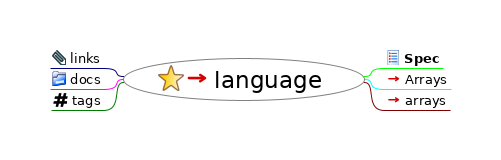
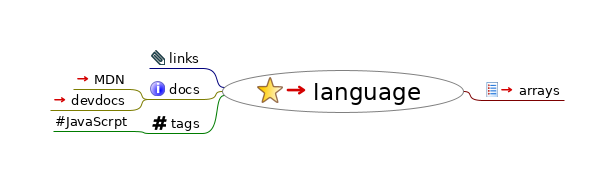
Clean up Arrays

Changed region(s): [[0.0898, 0.2812, 0.9281, 0.75], [0.7784, 0.5938, 0.8982, 0.6562], [0.7485, 0.6562, 0.8982, 0.7188]]

diff --git a/language.html b/language.html
@@ -23,14 +23,15 @@
                    };
                };
           
-          --></script></head><body><h1>language</h1><div style="width:96%;  padding:2%;  margin-bottom:10px;  border: 0px;  text-align:center;  vertical-align:center;"><img src="language.html_files/image.png" style="margin-bottom:10px; &#9;border: 0px; &#9;text-align:center; &#9;vertical-align:center;" alt="Imagemap" usemap="#fm_imagemap" /></div><map name="fm_imagemap" id="fm_imagemap"><area shape="rect" href="index.html" alt="language" title="language" coords="123,58,365,101" />
-<area shape="rect" href="#FMID_120250381FM" alt="Spec" title="Spec" coords="384,50,443,68" />
-<area shape="rect" href="https://developer.mozilla.org/en-US/docs/Web/JavaScript/Reference/Global_Objects/Array" alt="Arrays" title="Arrays" coords="384,71,451,89" />
-<area shape="rect" href="arrays.html" alt="arrays" title="arrays" coords="384,92,450,110" />
-<area shape="rect" href="#FMID_808607355FM" alt="links" title="links" coords="50,50,104,68" />
-<area shape="rect" href="#FMID_1100215200FM" alt="docs" title="docs" coords="50,71,104,89" />
-<area shape="rect" href="#FMID_466759422FM" alt="tags" title="tags" coords="51,92,104,110" />
+          --></script></head><body><h1>language</h1><div style="width:96%;  padding:2%;  margin-bottom:10px;  border: 0px;  text-align:center;  vertical-align:center;"><img src="language.html_files/image.png" style="margin-bottom:10px; &#9;border: 0px; &#9;text-align:center; &#9;vertical-align:center;" alt="Imagemap" usemap="#fm_imagemap" /></div><map name="fm_imagemap" id="fm_imagemap"><area shape="rect" href="index.html" alt="language" title="language" coords="222,70,464,113" />
+<area shape="rect" href="arrays.html" alt="arrays" title="arrays" coords="483,82,564,100" />
+<area shape="rect" href="#FMID_808607355FM" alt="links" title="links" coords="149,50,203,68" />
+<area shape="rect" href="#FMID_1425964050FM" alt="docs" title="docs" coords="148,81,203,99" />
+<area shape="rect" href="https://developer.mozilla.org/en-US/docs/Web/JavaScript" alt="MDN" title="MDN" coords="73,71,129,89" />
+<area shape="rect" href="https://devdocs.io/javascript/" alt="devdocs" title="devdocs" coords="50,92,129,110" />
+<area shape="rect" href="#FMID_466759422FM" alt="tags" title="tags" coords="150,115,203,133" />
+<area shape="rect" href="#FMID_1174764408FM" alt="#JavaScrpt" title="#JavaScrpt" coords="53,113,131,131" />
 </map>
 
-<div class="node"><img src="language.html_files/hide.png" class="hideshow" alt="hide" onClick="toggle(&quot;N65543&quot;)" id="imgN65543" /><img src="language.html_files/icons/bookmark.svg" alt="bookmark" /> <a id="FMID_1831615648FM" /><div class="nodecontent" style="color:#000000;font-size:150%;"><a href="index.html">language</a> <a href="index.html"><img src="language.html_files/ilink.png" alt="User Link" style="border-width:0" /></a></div><div class="content" id="N65543"><div class="node"><img src="language.html_files/leaf.png" class="hideshow" alt="leaf" /><img src="language.html_files/icons/list.svg" alt="list" /> <a id="FMID_120250381FM" /><div class="nodecontent" style="color:#000000;font-size:83%;font-weight:bold;">Spec</div></div><div class="node"><img src="language.html_files/leaf.png" class="hideshow" alt="leaf" /><a id="FMID_1330345949FM" /><div class="nodecontent" style="color:#000000;font-size:83%;"><a href="https://developer.mozilla.org/en-US/docs/Web/JavaScript/Reference/Global_Objects/Array">Arrays</a> <a href="https://developer.mozilla.org/en-US/docs/Web/JavaScript/Reference/Global_Objects/Array"><img src="language.html_files/ilink.png" alt="User Link" style="border-width:0" /></a></div></div><div class="node"><img src="language.html_files/leaf.png" class="hideshow" alt="leaf" /><a id="FMID_1284928462FM" /><div class="nodecontent" style="color:#000000;font-size:83%;"><a href="arrays.html">arrays</a> <a href="arrays.html"><img src="language.html_files/ilink.png" alt="User Link" style="border-width:0" /></a></div></div><div class="node"><img src="language.html_files/leaf.png" class="hideshow" alt="leaf" /><img src="language.html_files/icons/attach.svg" alt="attach" /> <a id="FMID_808607355FM" /><div class="nodecontent" style="color:#000000;font-size:83%;">links</div></div><div class="node"><img src="language.html_files/leaf.png" class="hideshow" alt="leaf" /><img src="language.html_files/icons/folder.svg" alt="folder" /> <a id="FMID_1100215200FM" /><div class="nodecontent" style="color:#000000;font-size:83%;">docs</div></div><div class="node"><img src="language.html_files/leaf.png" class="hideshow" alt="leaf" /><img src="language.html_files/icons/hashtag.png" alt="hashtag" /> <a id="FMID_466759422FM" /><div class="nodecontent" style="color:#000000;font-size:83%;">tags</div></div></div></div>
+<div class="node"><img src="language.html_files/hide.png" class="hideshow" alt="hide" onClick="toggle(&quot;N65543&quot;)" id="imgN65543" /><img src="language.html_files/icons/bookmark.svg" alt="bookmark" /> <a id="FMID_1831615648FM" /><div class="nodecontent" style="color:#000000;font-size:150%;"><a href="index.html">language</a> <a href="index.html"><img src="language.html_files/ilink.png" alt="User Link" style="border-width:0" /></a></div><div class="content" id="N65543"><div class="node"><img src="language.html_files/leaf.png" class="hideshow" alt="leaf" /><img src="language.html_files/icons/list.svg" alt="list" /> <a id="FMID_1284928462FM" /><div class="nodecontent" style="color:#000000;font-size:83%;"><a href="arrays.html">arrays</a> <a href="arrays.html"><img src="language.html_files/ilink.png" alt="User Link" style="border-width:0" /></a></div></div><div class="node"><img src="language.html_files/leaf.png" class="hideshow" alt="leaf" /><img src="language.html_files/icons/attach.svg" alt="attach" /> <a id="FMID_808607355FM" /><div class="nodecontent" style="color:#000000;font-size:83%;">links</div></div><div class="node"><img src="language.html_files/hide.png" class="hideshow" alt="hide" onClick="toggle(&quot;N66530&quot;)" id="imgN66530" /><img src="language.html_files/icons/info.svg" alt="info" /> <a id="FMID_1425964050FM" /><div class="nodecontent" style="color:#000000;font-size:83%;">docs</div><div class="content" id="N66530"><div class="node"><img src="language.html_files/leaf.png" class="hideshow" alt="leaf" /><a id="FMID_773205118FM" /><div class="nodecontent" style="color:#000000;font-size:83%;"><a href="https://developer.mozilla.org/en-US/docs/Web/JavaScript">MDN</a> <a href="https://developer.mozilla.org/en-US/docs/Web/JavaScript"><img src="language.html_files/ilink.png" alt="User Link" style="border-width:0" /></a></div></div><div class="node"><img src="language.html_files/leaf.png" class="hideshow" alt="leaf" /><a id="FMID_83129282FM" /><div class="nodecontent" style="color:#000000;font-size:83%;"><a href="https://devdocs.io/javascript/">devdocs</a> <a href="https://devdocs.io/javascript/"><img src="language.html_files/ilink.png" alt="User Link" style="border-width:0" /></a></div></div></div></div><div class="node"><img src="language.html_files/hide.png" class="hideshow" alt="hide" onClick="toggle(&quot;N66646&quot;)" id="imgN66646" /><img src="language.html_files/icons/hashtag.png" alt="hashtag" /> <a id="FMID_466759422FM" /><div class="nodecontent" style="color:#000000;font-size:83%;">tags</div><div class="content" id="N66646"><div class="node"><img src="language.html_files/leaf.png" class="hideshow" alt="leaf" /><a id="FMID_1174764408FM" /><div class="nodecontent" style="color:#000000;font-size:83%;">#JavaScrpt</div></div></div></div></div></div>
 </body></html>

diff --git a/language.mm b/language.mm
@@ -1,6 +1,6 @@
 <map version="freeplane 1.7.0">
 <!--To view this file, download free mind mapping software Freeplane from http://freeplane.sourceforge.net -->
-<node TEXT="language" FOLDED="false" ID="ID_1831615648" CREATED="1569272472516" MODIFIED="1571271635147" ICON_SIZE="20.0 pt" LINK="index.mm" STYLE="oval">
+<node TEXT="language" FOLDED="false" ID="ID_1831615648" CREATED="1569272472516" MODIFIED="1572498454038" ICON_SIZE="20.0 pt" LINK="index.mm" STYLE="oval">
 <icon BUILTIN="bookmark"/>
 <font SIZE="18"/>
 <hook NAME="MapStyle">
@@ -65,28 +65,24 @@
 </map_styles>
 </hook>
 <hook NAME="AutomaticEdgeColor" COUNTER="6" RULE="ON_BRANCH_CREATION"/>
-<node TEXT="Spec" POSITION="right" ID="ID_120250381" CREATED="1570979967089" MODIFIED="1571978467214">
+<node TEXT="arrays" POSITION="right" ID="ID_1284928462" CREATED="1571980169123" MODIFIED="1572498505851" LINK="arrays.mm">
 <icon BUILTIN="list"/>
-<edge COLOR="#00ff00"/>
-<font BOLD="true"/>
-</node>
-<node TEXT="Arrays" POSITION="right" ID="ID_1330345949" CREATED="1571978468359" MODIFIED="1571978535075" LINK="https://developer.mozilla.org/en-US/docs/Web/JavaScript/Reference/Global_Objects/Array">
-<edge COLOR="#00ffff"/>
-</node>
-<node TEXT="arrays" POSITION="right" ID="ID_1284928462" CREATED="1571980169123" MODIFIED="1571980889293" LINK="arrays.mm">
 <edge COLOR="#7c0000"/>
 </node>
 <node TEXT="links" POSITION="left" ID="ID_808607355" CREATED="1570968728188" MODIFIED="1570968728190">
 <icon BUILTIN="attach"/>
 <edge COLOR="#00007c"/>
 </node>
-<node TEXT="docs" POSITION="left" ID="ID_1100215200" CREATED="1570969039178" MODIFIED="1570980265221">
-<icon BUILTIN="folder"/>
-<edge COLOR="#ff00ff"/>
+<node TEXT="docs" POSITION="left" ID="ID_1425964050" CREATED="1572497990298" MODIFIED="1572498279093">
+<icon BUILTIN="info"/>
+<edge COLOR="#7c7c00"/>
+<node TEXT="MDN" ID="ID_773205118" CREATED="1572497994071" MODIFIED="1572498002669" LINK="https://developer.mozilla.org/en-US/docs/Web/JavaScript"/>
+<node TEXT="devdocs" ID="ID_83129282" CREATED="1572498043641" MODIFIED="1572498048395" LINK="https://devdocs.io/javascript/"/>
 </node>
 <node TEXT="tags" POSITION="left" ID="ID_466759422" CREATED="1570968754383" MODIFIED="1571411739700">
 <icon BUILTIN="hashtag"/>
 <edge COLOR="#007c00"/>
+<node TEXT="#JavaScrpt" ID="ID_1174764408" CREATED="1572498487523" MODIFIED="1572498491727"/>
 </node>
 </node>
 </map>
